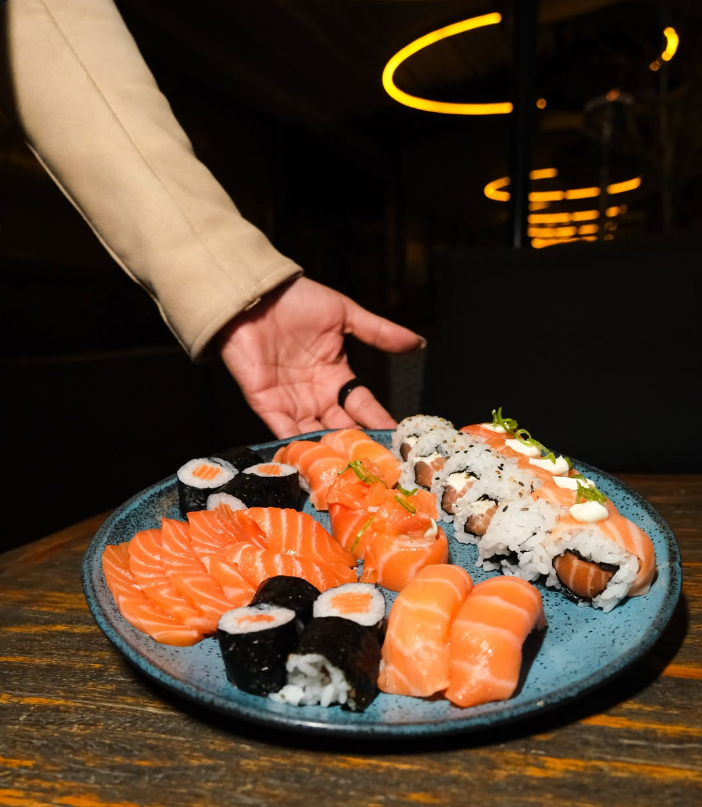
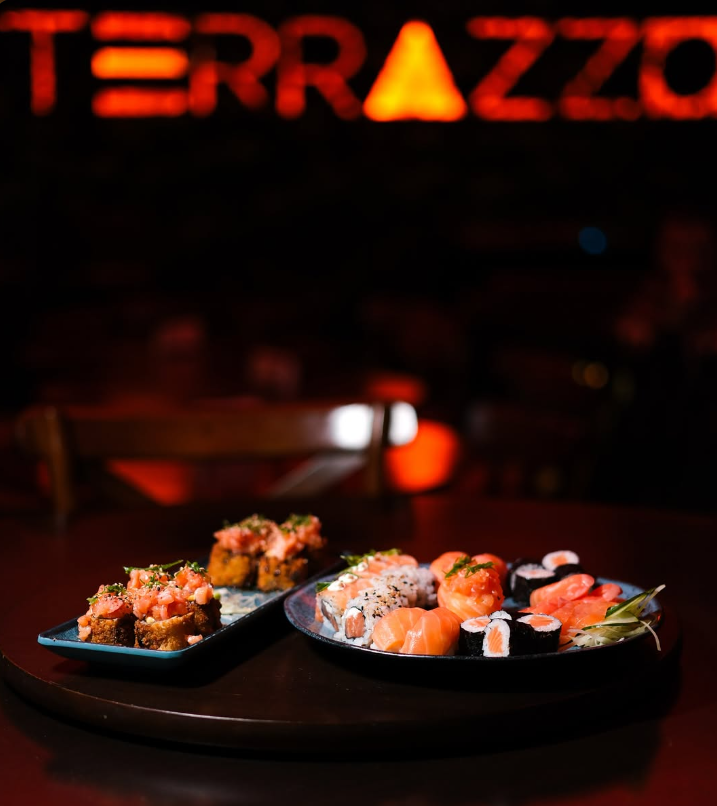
fix: esconde nome no header em telas pequenas

diff --git a/style.css b/style.css
@@ -80,6 +80,9 @@ h1, h2, h3 { margin: 0; font-weight: 400; line-height: 1.1; }
 
 .nav { display: none; }
 .header__actions { display: flex; align-items: center; gap: 8px; }
+@media (max-width: 479px) {
+  .brand__name { display: none; }
+}
 .menu-toggle {
   width: 40px; height: 40px; border: 0; background: transparent; cursor: pointer;
   display: flex; flex-direction: column; justify-content: center; gap: 6px; padding: 8px;
